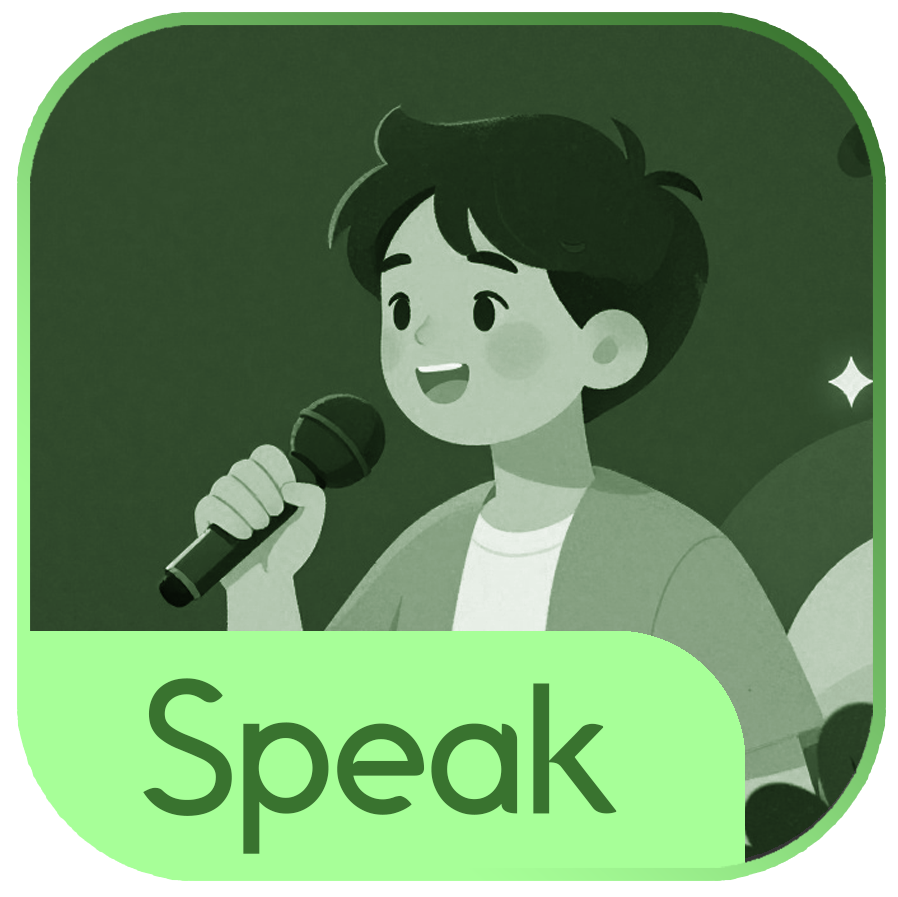
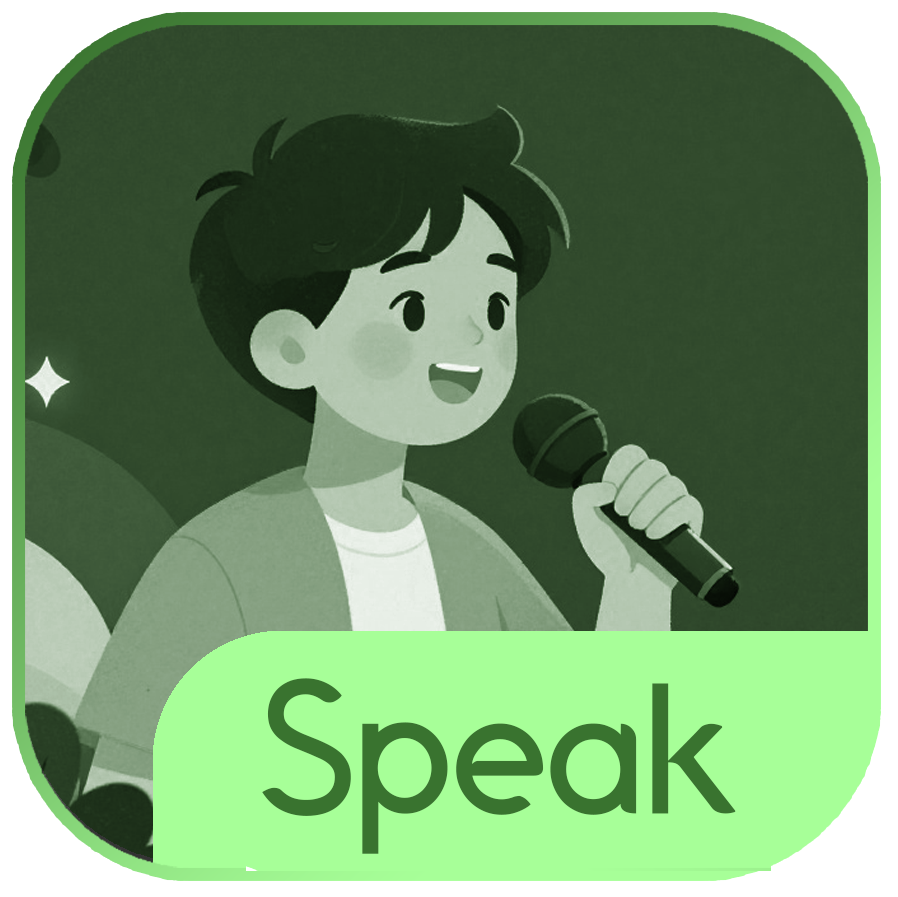
refactor(dashboard): update asset images for watch and review

diff --git a/pages/Dashboard.tsx b/pages/Dashboard.tsx
@@ -11,8 +11,8 @@ import { motion, AnimatePresence } from 'motion/react';
 import warmUpImage from '../src/assets/images/speak.png';
 import learnImage from '../src/assets/images/learn.png';
 import speakImage from '../src/assets/images/speak.png';
-import watchImage from '../src/assets/images/speak.png';
-import reviewImage from '../src/assets/images/speak.png';
+import watchImage from '../src/assets/images/play.png';
+import reviewImage from '../src/assets/images/play.png';
 import challengeImage from '../src/assets/images/learn.png';
 
 const Dashboard: React.FC = () => {